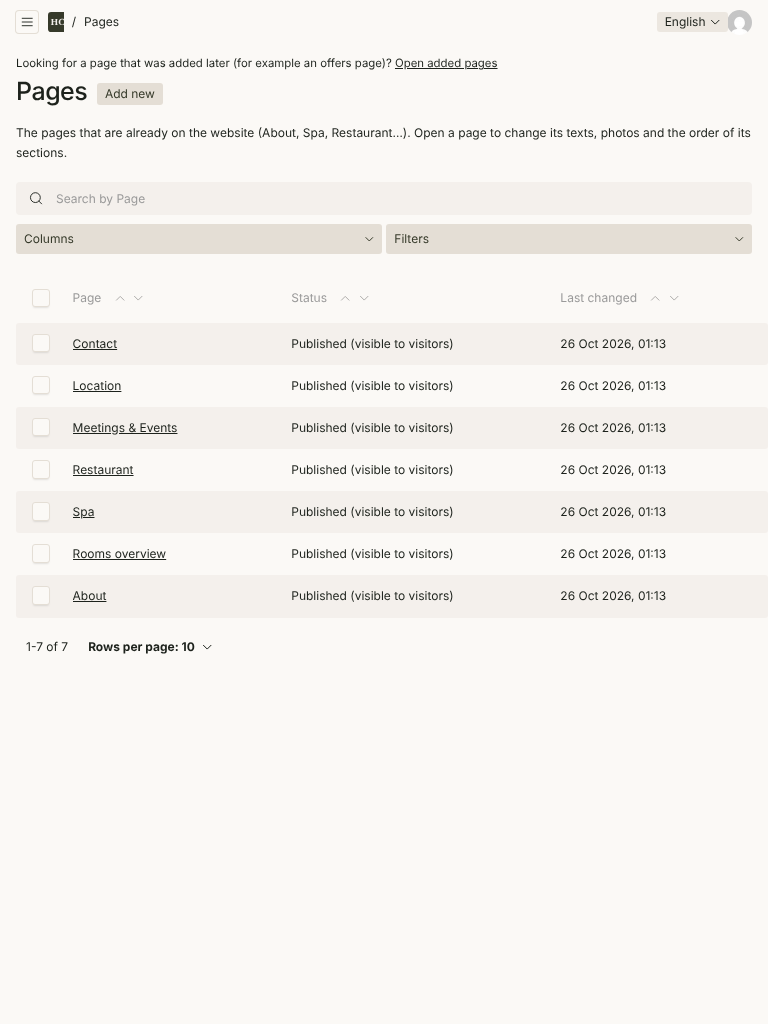
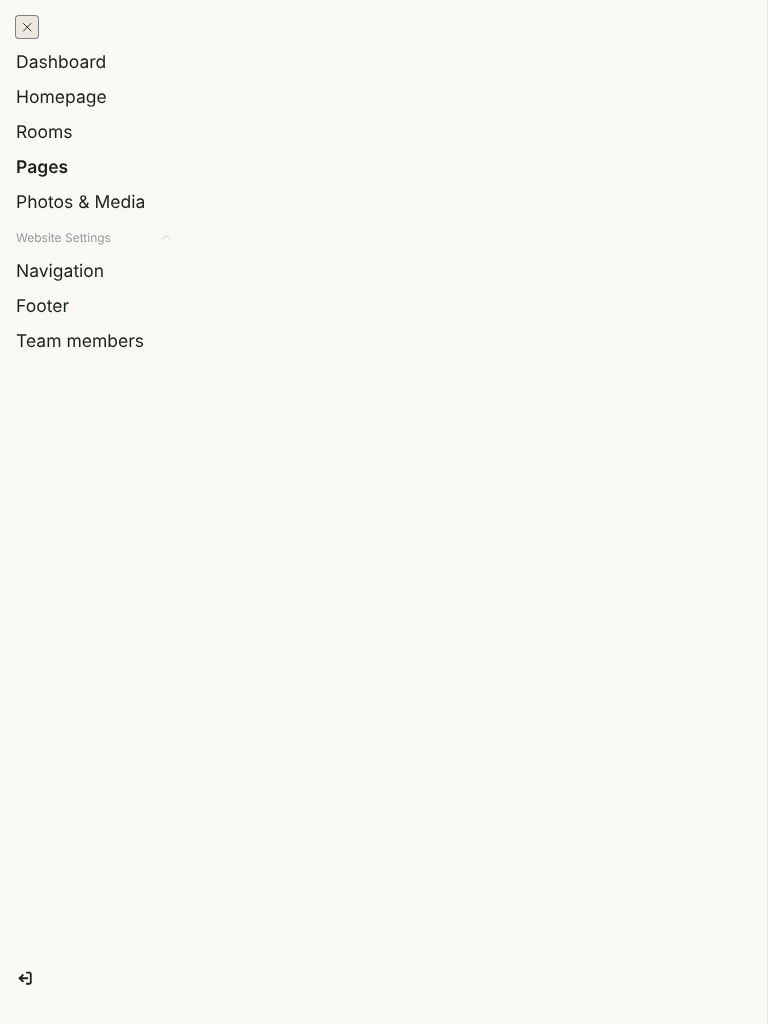
Test: click the collapsible toggle of the photo options
Claude-Session: https://claude.ai/code/session_01CU89hP9HF4WPDQtAyMFckx

diff --git a/tests/cms-e2e/admin-ux.spec.ts b/tests/cms-e2e/admin-ux.spec.ts
@@ -350,12 +350,14 @@ test("photo field: shows the photo guests see, replaces it in one click, keeps f
   await expect(card).toBeVisible();
   // Plain wording, no file names; the technical choices are folded away.
   await expect(card).not.toContainText(/\.(jpe?g|png|webp|avif)/i);
+  // Payload lays its own toggle button over the label, so the toggle is what gets clicked.
+  const moreOptions = page.locator("div.collapsible", { has: page.locator(".row-label", { hasText: "More photo options" }) }).first().locator(".collapsible__toggle").first();
   const advanced = page.getByText("Use a photo that is already on the website").first();
   await expect(advanced).toBeHidden();
   await expect(page.getByText("Which part of the photo stays in view").first()).toBeHidden();
-  await page.getByText("More photo options", { exact: true }).first().click();
+  await moreOptions.click();
   await expect(advanced).toBeVisible();
-  await page.getByText("More photo options", { exact: true }).first().click();
+  await moreOptions.click();
   await expect(advanced).toBeHidden();
 
   const had = await card.getAttribute("data-hc-photo-source");
